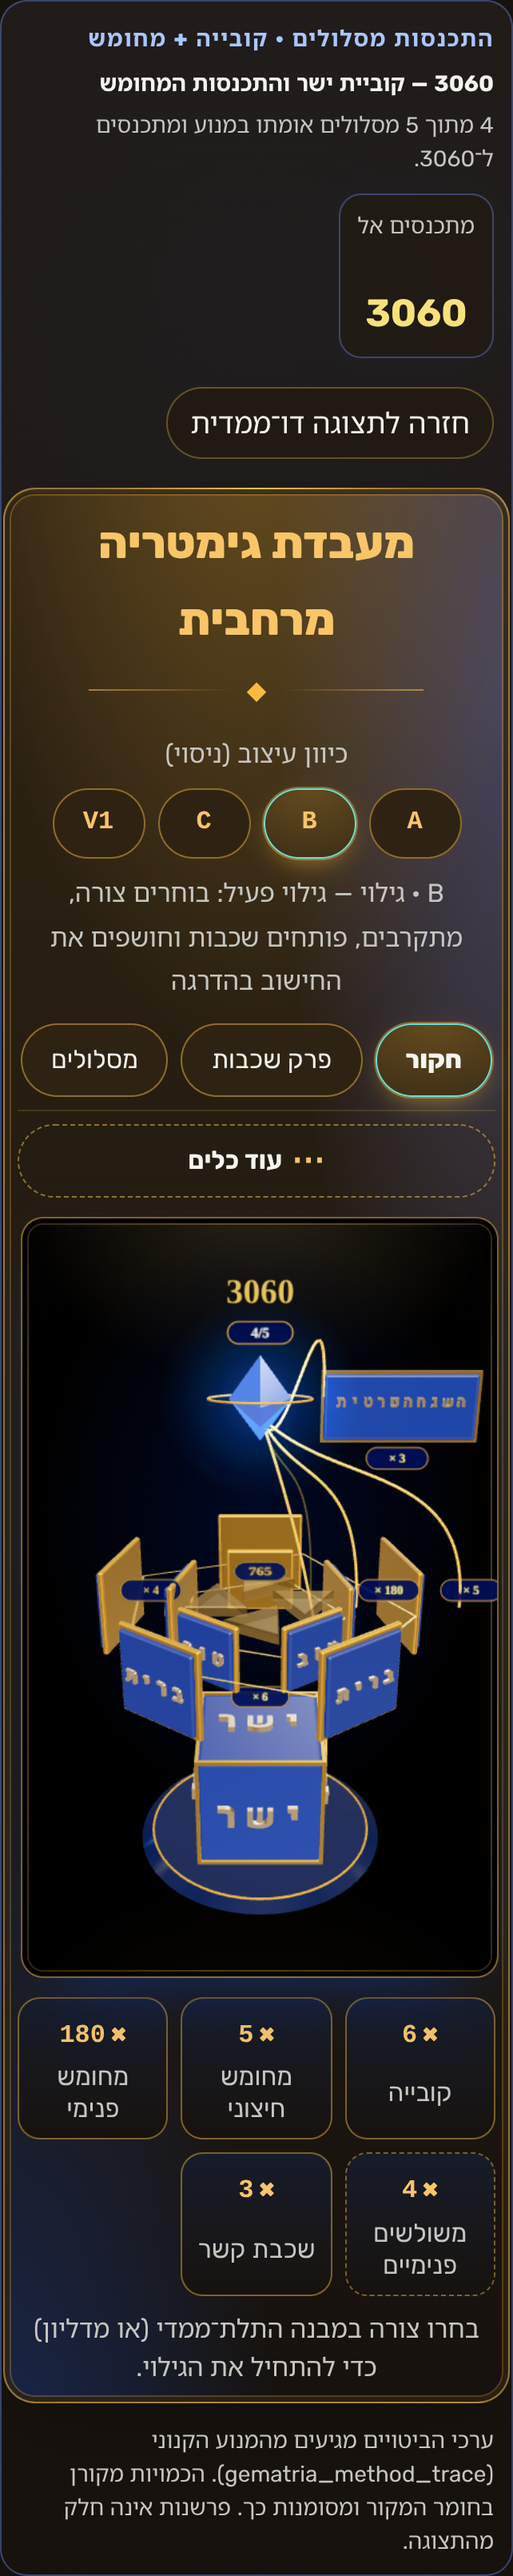
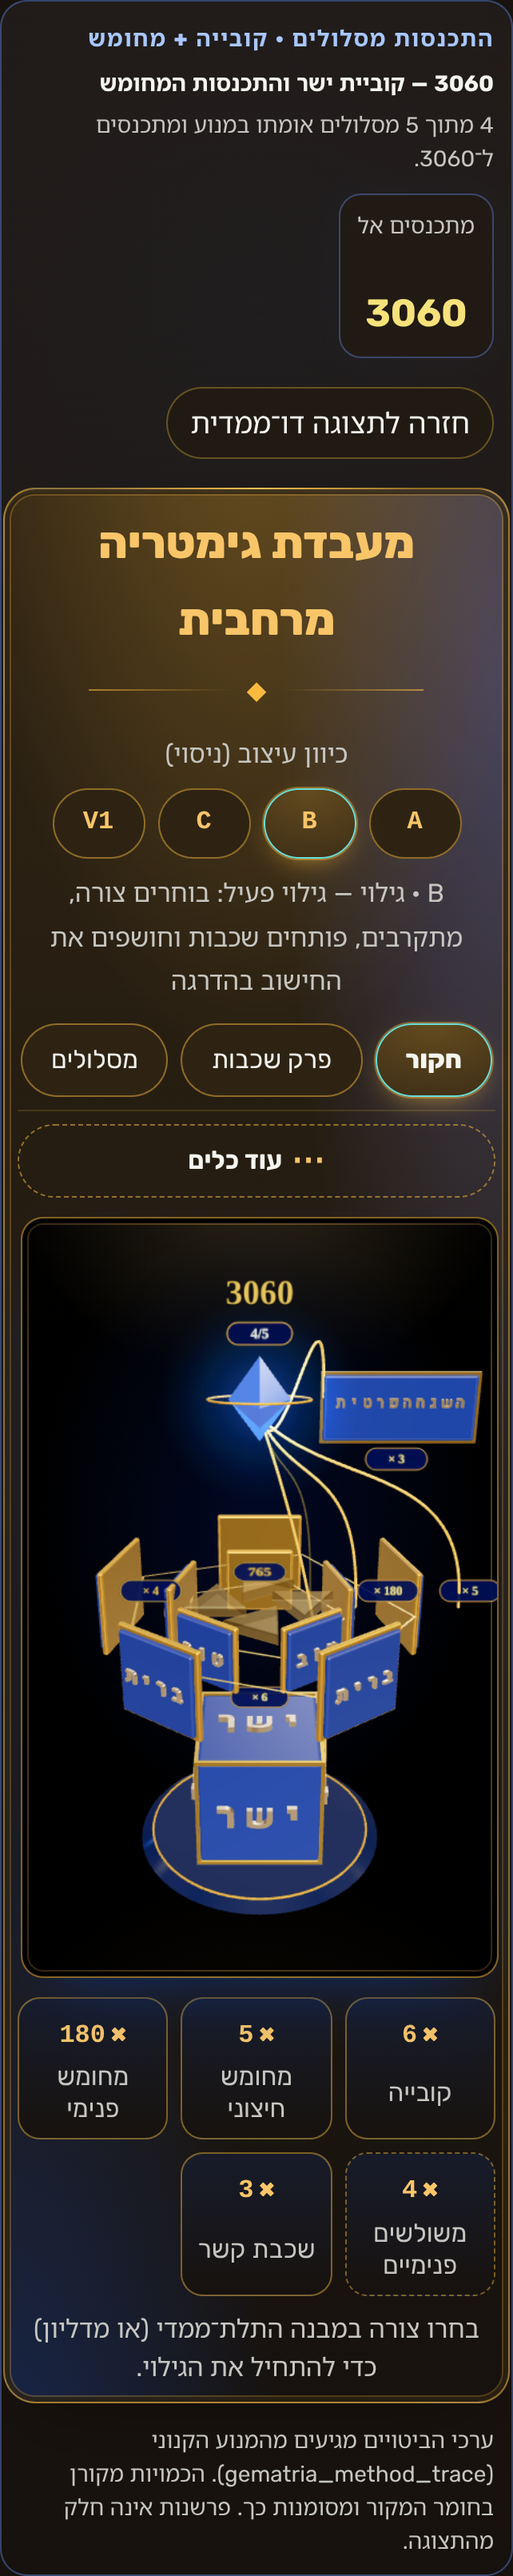
feat(spatial): Royal V2 experiments complete — three directions on one engine, evidence and README
- directions A Museum / B Discovery / C Spatial Lab + V1 rollback look, one scene, one dataset (labRows), direction switcher and ?lab= link
- audit fixes: compact framing, three primary actions, hardened sidesOf, exact quantity attribution, glyph text fallback, Design V2 typography
- browser evidence (SwiftShader): desktop + 390 + 320, GPU release, glyph fallback, reduced motion; honest limits in README

Preview/branch only. No DB, contract, Edge, main or Production change.

Claude-Session: https://claude.ai/code/session_01H7739NZCwrBt41nekghv4A

diff --git a/src/components/gematria2029/spatialMethodStage2029.css b/src/components/gematria2029/spatialMethodStage2029.css
@@ -619,3 +619,5 @@
 }
 .sod29-root.surface-world .sod29-world-spatial-body .is-convergence .sod29-spatial-lab-hall .sod29-spatial-convergence__ledger p{font-size:var(--s29-type-small,15px);line-height:1.5}
 .sod29-spatial-lab-hall .sod29-spatial-convergence__ledger :is(.sod29-spatial-method-stage__focus,.sod29-spatial-method-stage__boundary) :is(strong,span,p){font-size:var(--s29-type-small,15px)}
+.sod29-spatial-lab-hall .sod29-spatial-convergence__ledger .sod29-spatial-method-stage__head :is(strong,span,small){font-size:var(--s29-type-small,15px)}
+@media (max-width:520px){.sod29-spatial-lab-hall .sod29-spatial-lab__title b{font-size:var(--s29-type-lead,18px)}.sod29-spatial-lab-hall .sod29-spatial-lab__title .r29-rule{display:none}}

diff --git a/docs/reviews/anatomy-pilot-lab-3060-v2-20261115/README.md b/docs/reviews/anatomy-pilot-lab-3060-v2-20261115/README.md
@@ -1,0 +1,94 @@
+# מעבדת 3060 — שלב ניסויים Royal V2
+
+סטטוס: **BRANCH-ONLY + Preview מוגן בלבד** (ענף `claude/anatomy-pilot-spatial-8ueak4`). אין שינוי במסד, בחוזים, ב־Edge, בהרשאות, ב־`main` או ב־Production. אין מיזוג ואין פריסה ציבורית.
+זה שלב ניסויים: לא נבחר עיצוב סופי, ולא נעשתה הכנה להשקה.
+
+## 0. נקודת המוצא (נבדקה לפני שינוי)
+
+- Repository `zuriel337/sod1820`, ענף `claude/anatomy-pilot-spatial-8ueak4`; `HEAD` בתחילת העבודה = `cb7563022553269bb4f24319495f0cb6036d84c7`, עץ נקי, ללא סטייה מקומית.
+- קומיט ה־Preview שנבדק קודם: `030f668335e6668683b71ecfe7f19356667497de` (V1). `origin/main` = `d1f1e32…` (קדימה ב־1 קומיט שלא נוגע בקבצי המרחבי).
+- בעלויות: אין PR פתוח ואין ענף פעיל אחר בקבצי `gematria2029/*Spatial*|*Scene3D*`, `spatialRenderModel`, `zviSpatialWorldProjection`; יומן העבודה (`work_log_current`, קריאה בלבד) — רק רשומות שלי. לא נגעתי בענף עורך היחידות / PR #1358.
+- **חזרה לגרסה הקודמת:** (א) באפליקציה — הכיוון `V1 · קודם` (או `?lab=v1`) מציג את המראה והבקרות של `030f668`; (ב) בגיט — הקומיט `030f668` (קוד) / `cb7563022` (תיעוד).
+
+## 1. מה נבנה: שלושה כיווני עיצוב, מנוע אחד
+
+כל הכיוונים משתמשים ב**אותה סצנה** (`StructureScene3D2029`), **אותו מודל מחקרי** (`yesharim-cube-3060` מתוך `spatialModels`), **אותו מחשבון** (`gematria_method_trace`) ו**אותם נתונים** (`buildLabRows` — שורות טהורות, זהות לכולם). כיוון הוא רק `look` (תאורה/חומרים/מצלמה) + שלד DOM. אין מנוע, מחשבון, חוזה, טבלה או store נוספים (בדיקה: `test/spatial-lab-royal-v2.test.mjs`, "one engine").
+
+| כיוון | רעיון | מה רואים לפני הסצנה | פאנל מתחת לסצנה |
+|---|---|---|---|
+| **A · Royal Museum** | מוצג מלכותי, תאורת מוזיאון, צללים, סחף מצלמה עדין (רק בדרג העשיר) | 3 פעולות + "עוד כלים" | קרטוש עם הביטוי והמשוואה, מדליוני מסלולים, "מקור ופירוט" מקופל |
+| **B · Royal Discovery** | בוחרים צורה ← מתקרבים ← פותחים שכבות ← החישוב נחשף שלב אחר שלב | 3 פעולות + "עוד כלים" | מדליונים; ביטוי → ערך במנוע → כמות → תוצאה; "הצג הכול"; מקור ופירוט בסוף |
+| **C · Royal Spatial Lab** | מעבדת מחקר: סצנה במרכז, כלים נקיים | 3 פעולות + "עוד כלים" | לשוניות חישוב / מקור / נתונים; טבלת 5 המסלולים; יומן החישוב הקנוני |
+| **V1 · קודם** | המראה והבקרות של הגרסה הקודמת | 11 כפתורים | כמו בגרסה הקודמת |
+
+**החלפה בין הכיוונים באותו Preview:** בורר "כיוון עיצוב (ניסוי)" בראש המעבדה (A / B / C / V1), או קישור עם `?lab=museum|discovery|lab|v1` (גם `a|b|c`). ערך לא מוכר נופל ל־A (ללא `__proto__`/`constructor` — נבדק). הבורר הוא בקרת ניסוי להשוואה בלבד.
+
+### בקרות (כל הכיוונים החדשים)
+שלוש פעולות בלבד: **חקור** · **פרק שכבות** · **מסלולים**. כל השאר ב"עוד כלים" (מבט כללי/ממוקד, סיבוב איטי, שכבות, איפוס). בחירת חלקים ישירות בתוך המבנה (לחיצה/מגע) עובדת בכל הכיוונים, עם סימון ריחוף. ממשק פעיל במקלדת (Enter); הפוקוס נשמר.
+
+## 2. תיקוני הביקורת
+
+| נושא | מה נעשה |
+|---|---|
+| קומפוזיציה/מצלמה | `structureExtent()` ממסגר את **המבנה הראשי**; שכבת הקשר (בלי גאומטריה מאושרת) צפה כלוחית בתוך המסגרת ליד הקודקוד, לכן המצלמה לא מתרחקת בגללה. טבעות הדוקות וחלקים גדולים יותר; בטלפון הקובייה והמחומשים תופסים את רוחב הסצנה. צד־הכתב "× כמות" נכלל במסגרת. |
+| בקרות | 3 פעולות ראשיות + תפריט משני (במקום 11 כפתורים). בטלפון ה"עוד כלים" נפתח בתוך הזרימה (לא חורג מהמסך). |
+| גיאומטריה/חומריות | ספיר עמוק (clearcoat, sheen, ior 1.77) וזהב עתיק; מסגרות זהב ליד הלוחות והקובייה (instanced — draw אחד לכל סוג); משולשים עם קצה משופע; כנת זכוכית מוזהבת; צללי מפתח (דרג עשיר בלבד); הילה לקודקוד. **משמעות הצורות לא שונתה** — מספר הלוחות, 6 הפאות ומספר המשולשים מגיעים מהמודל. |
+| טיפוגרפיה (Design V2) | הפונט המספרי רק על מספרים/משוואות (`.sod29-lab-num`), ביטויים בעברית ב־UI face (באג קודם תוקן: ביטוי עברי קיבל פונט מספרי). כותרות וטקסט לפי `--s29-type-title/-ui/-small`; בתוך המעבדה נעקפה סקאלת 12–13px המקומית של עמוד העולם (CSS של העמוד לא שונה). בדיקת דפדפן נכשלת אם נמצא טקסט גלוי <15px או עברית בפונט מספרי. |
+| `sidesOf()` | מוקשח: צלעות רק משדה `sides` של המודל, שלם 3..12; בלי `sides` — לא מציירים (לא נוצרת צורה מ־180). הבדיקה הישנה שדרשה נפילה ל־quantity עודכנה במכוון. כמות המשולשים נלקחת ממאפיין `inner_triangles` (שרטוט המקור), לא מכמות האזור. |
+| שיוך מקור | `describePathSource`: ערך הביטוי ← המנוע; הכמות ← המאפיין המוצהר (מפתח + provenance) או "לא צוין"/"דו־משמעי" (כמות המשויכת לשני מאפיינים לא משויכת); המקור הכתוב — **ברמת הכרטיס בלבד, והממשק אומר זאת** (המודל אינו מצמיד הופעה לאזור). |
+| חלופה לגליף | מילה שאות תלת־ממדית שלה לא נטענה מוצגת כמשטח טקסט קריא; `glyphWordMode` (טהור + בדיקה); `?glyphs=text` מציג את החלופה; מצב נחשף ב־`data-glyph-status`. |
+| 765 | נשאר לא מאומת בכל כיוון: מוצג, מעומעם, לא נספר (4/5); ב־Discovery השלב האחרון שלו הוא "הפעולה המוצהרת במודל — לא אומתה ולא נספרת". נבדק בדפדפן ובבדיקות יחידה. |
+
+## 3. השוואה (שיקול דעת מבוסס צילומים ומדידות; לא סקר משתמשים)
+
+| | A מוזיאון | B גילוי | C מעבדה | V1 |
+|---|---|---|---|---|
+| יופי | **הכי גבוה**: הממצא הוא הגיבור, קרטוש מלכותי, צללים | גבוה (אותה סצנה), נוסף ממד של תנועה והדרגתיות | נקי ומכובד, פחות "וואו" | מצב קודם: כחול חשמלי יותר, בקרות עמוסות |
+| שימושיות | נמוכה־בינונית — מעט כלים, פחות חקירה | **גבוהה לגילוי**: מכוון, מסביר; בלי טבלאות | **הגבוהה ביותר למחקר**: טבלה, מקור, נתונים, יומן | נמוכה (11 כפתורים) |
+| ביצועים (תוכנה, ראו להלן) | הכבד: צללים + סחף רציף בדרג עשיר (128 draw) | בינוני (128 draw, בלי סחף) | **הקל** (109 draw, בלי צללים) | הקל (105) |
+| התאמה למסעות עתידיים | טובה כ"חדר תצוגה" | **הטובה ביותר**: "להיכנס לממצא" = אותה בחירה→קירוב→חשיפה | טובה כמגירת מומחה בתוך כל חדר | לא |
+
+**המלצה (לא נעולה, מחכה לאישור שלך):** הכיוון המבטיח ביותר הוא **B · Discovery** כחוויה הראשית של הממצא, עם **התאורה והחומריות של A** כברירת מחדל ו**פאנל C** כמגירת "מומחה" פתוחה לפי בקשה. B הוא היחיד שהופך את הסצנה לתהליך (בחר → התקרב → פתח → חשוף), וזה בדיוק אופי "כניסה לממצא" במסע; A תורם את הרושם הוויזואלי; C תורם את הדיוק המחקרי. לפני שמקבעים: להריץ את שלושתם על טלפון אמיתי.
+
+## 4. בדיקות והוכחות
+
+### בדיקות יחידה/חוזה/רגרסיה (הרצה מקומית; לא CI)
+- `test/spatial-lab-royal-v2.test.mjs` (12) + `spatial-structure-lab-3060` (12) + `src/lib/spatialRenderModel.test.js` (7) + כל חבילות הספציאלי, dependency radar, number-method, beit-midrash, world-knowledge, typography, palette: **144 בדיקות, 140 עברו, 0 נכשלו, 4 דולגו (קיימות)**.
+- שערים: `test-legacy-retired`, `test-2029-isolation`, `built-graph`, `first-load-graph` (World2029Page 1,663,613 בתים — ללא שינוי), `cheap-hardening`, `canonical-presentation`, `canonical-contract-wiring` — exit 0.
+
+### דפדפן (Playwright + SwiftShader = **GL תוכנה, לא GPU של טלפון**) — `scripts/anatomy-pilot/lab-3060-v2-browser-check.mjs`, קבלות `receipt-v2-*.json`
+- דסקטופ 1280 לכל כיוון: 3 פעולות ראשיות בדיוק; בחירה בלחיצה בקנבס (3–5 חלקים שונים); מקלדת (Enter); 4/5 מאומתים; 765 לא מקודם; Discovery לא חושף דבר לפני בחירה; Lab — טבלה של 5 שורות ו־4 מאומתות; אפס עברית בפונט מספרי; אפס טקסט <15px.
+- מובייל 390 (CPU×4) ו־320: אפס גלישה אופקית (בדיקת גיאומטריה של כל אלמנט), כל יעדי המגע ≥44×44, אפס שגיאות קונסולה.
+- שחרור GPU: 5 מחזורי פתיחה/סגירה למוזיאון ול־Discovery — **0 contexts חיים**, heap 12→12MB.
+- חלופת גליף (`?glyphs=text`): `data-glyph-status=failed`, הטקסט נשאר קריא (צילומי `v2-*-glyph-fallback-390.png`).
+- תנועה מופחתת: אין סחף (שני צילומים זהים).
+
+| מדד (תוכנה) | A | B | C | V1 |
+|---|---|---|---|---|
+| draw calls / geometries / textures (דסקטופ) | 128 / 55 / 14 | 128 / 55 / 14 | 109 / 55 / 12 | 105 / 51 / 12 |
+| צללים | כן (rich) | כן (rich) | לא | לא |
+| draw calls בטלפון (lite) | 109 | 109 | 109 | 105 |
+| p95 בין פריימים בגרירה, 320 / 390 (ms) | 367 / 667 | 283 / 400 | 267 / 333 | 250 / 333 |
+| סחף רציף במוזיאון (1x, תוכנה) | חציון 83ms, p95 683ms — **רינדור רציף** | — | — | — |
+
+**חשוב:** המספרים בתוכנה, ועוצמתם משקפת את ה־CPU של הסביבה; V1 (הגרסה הקודמת) מציג בדיוק את אותו סדר גודל באותו כלי, ולכן V2 לא נמדד כרגרסיה ביחס אליו — אך אין כאן מדידה של GPU אמיתי. הסחף של A דורש פריימים רציפים: לכן הוא כבוי בדרג הקל (טלפונים / חיסכון נתונים), כבוי בתנועה מופחתת, נעצר מחוץ למסך, ונעצר 8 שניות אחרי נגיעה.
+
+### משקל (אחרי הקלקה על "תלת־ממד"; הכל lazy)
+Structure 20.8kB (gz 8.1) · ערכת Mistater 40.6kB (gz 13.9) · Convergence 7.9kB (gz 3.3) · three/OrbitControls 927kB (gz 242). חבילת ה־stage (נטענת עם פתיחת הכרטיס, לפני 3D) גדלה 19.6→37.9kB (gz 10.9): כוללת עכשיו את שלד ה־DOM של הכיוונים + `royal2029.css` המשותף. ניתן לדחות אותה ל־lazy בנפרד אם ירצו.
+
+## 5. מגבלות ידועות
+- אין בדיקה על טלפון אמיתי (ולא Safari/iOS). כל נתוני הביצועים מ־GL תוכנה.
+- Preview חסום ל־403 לדפדפן אוטומטי בסביבה; READY ב־Vercel אינו הוכחת קבלה חזותית — הצילומים כאן מהבנייה המקומית של אותו קוד.
+- רזיאל נעול לאורחים בסביבת הבדיקה: הוכח רק שהקשר המסלול מגיע לפאנל ועובר את ה־normalizer; לא הודגמה תשובה חיה.
+- הערכת היופי/שימושיות היא שיקול דעת שלי מצילומים, לא סקר.
+- `?glyphs=text` לבדיקת חלופה בלבד; כשל טעינה אמיתי של גליף נבדק ברמת ההחלטה (`glyphWordMode`) ולא בדפדפן, כי חסימת קבצי הגליפים שוברת גם את ה־2D הקיים (ממצא נפרד על הקיים).
+- שיוך מקור מדויק לאזור אינו אפשרי מהמודל הקיים: רק מקור כמות פר־מסלול ומקור כללי לכרטיס.
+
+## 6. חזון המסעות במסך מלא (בלי לבנות חדרים)
+הסצנה היא "סצנת ממצא" ניתנת להטמעה: כל הקלט בפרופס — נתונים (`spec, paths, value, verifiedCount, total`), בחירה (`focusIndex, onSelect`), מצב (`view, explode, spin, layers, resetToken`), הצגה (`look, quality, glyphs3D, reducedMotion`), מחזור חיים (`onFallback`). היא ממלאת את מיכל ההורה (המצלמה מותאמת ליחס המיכל, ללא תלות במידות העמוד), מחזיקה בעצמה את ה־GPU context ומשחררת אותו, ונעצרת מחוץ למסך. חדר במסע יוכל לעטוף אותה במיכל מסך מלא ולהעביר `look` משלו — ללא שכפול גימטריה, מודלים או חוזים. לא נבנתה מערכת חדרים.
+
+## 7. המלצות להמשך
+1. אישור כיוון (או שילוב B+A+C כפי שהוצע) — רק אחרי בדיקה על טלפון אמיתי.
+2. קובייה 1020 ועשרימון 620: דורשים משפחת צורה חדשה (1020: פעולה מרובת גורמים במודל; 620: איקוסהדרון) — התשתית כולה ניתנת לשימוש חוזר.
+3. מסתתר: להעביר את ערכת Royal ל־`MistaterScene3D2029`.
+4. החלטה: האם לפתוח את רזיאל לאורחים; ואם לדחות את שלד ה־DOM של הכיוונים ל־lazy.
